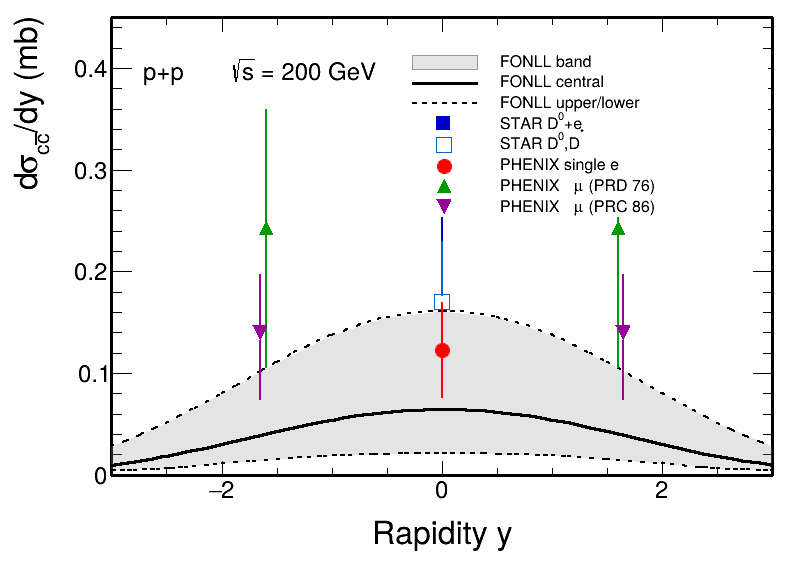
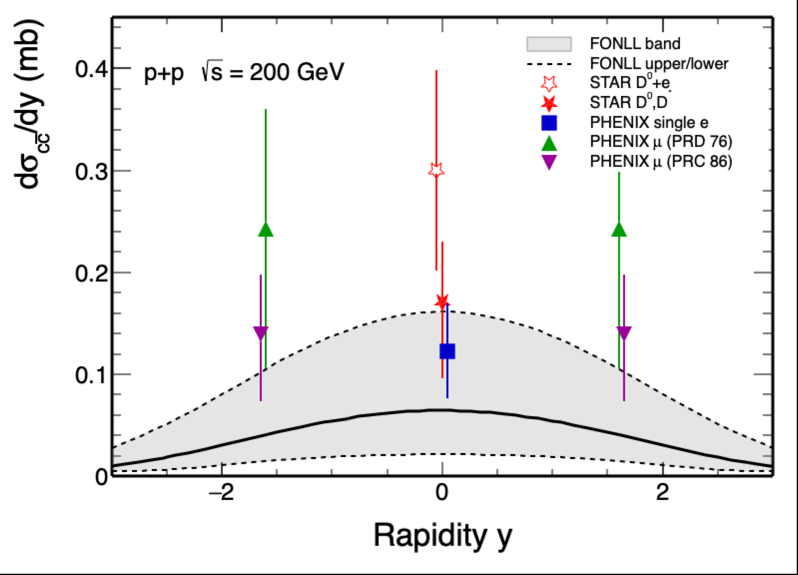
Sync charm and bottom rapidity plots

diff --git a/HF_Review_2026/tmp_root_macro/charm_rapidity_plot.C b/HF_Review_2026/tmp_root_macro/charm_rapidity_plot.C
@@ -46,7 +46,7 @@ void charm_rapidity_plot()
   double yHigh[nCurve] = {0.0280, 0.0512, 0.0801, 0.1113, 0.1375, 0.1551, 0.1614, 0.1551, 0.1375, 0.1113, 0.0801, 0.0512, 0.0280};
 
   double ex0[2] = {0., 0.};
-  double yStarX[1] = {0.0};
+  double yStarX[1] = {-0.05};
   // STAR PRL 94, 062301: d sigma_ccbar/dy(y=0) = 0.30 +/- 0.04 +/- 0.09 mb.
   double yStar[1] = {0.300};
   double yStarErr[1] = {0.0985};
@@ -58,7 +58,7 @@ void charm_rapidity_plot()
   double yStarNewErrLow[1] = {0.0742};
   double yStarNewErrHigh[1] = {0.0597};
 
-  double yPhenixSingleEX[1] = {0.0};
+  double yPhenixSingleEX[1] = {0.05};
   // PHENIX PRL 97, 252002, HEPData Table 2:
   // d sigma_ccbar/dy = 123 +/- 12(stat) +/- 45(syst) microbarn at |y| < 0.35.
   double yPhenixSingleE[1] = {0.123};
@@ -141,26 +141,26 @@ void charm_rapidity_plot()
   grCentral->Draw("c");
 
   TGraphErrors *grStar = new TGraphErrors(1, yStarX, yStar, ex0, yStarErr);
-  grStar->SetMarkerStyle(21);
-  grStar->SetMarkerSize(1.8);
-  grStar->SetMarkerColor(kBlue+1);
-  grStar->SetLineColor(kBlue+1);
+  grStar->SetMarkerStyle(30);
+  grStar->SetMarkerSize(1.9);
+  grStar->SetMarkerColor(kRed);
+  grStar->SetLineColor(kRed);
   grStar->SetLineWidth(2);
   grStar->Draw("p");
 
   TGraphAsymmErrors *grStarNew = new TGraphAsymmErrors(1, yStarNewX, yStarNew, ex0, ex0, yStarNewErrLow, yStarNewErrHigh);
-  grStarNew->SetMarkerStyle(25);
-  grStarNew->SetMarkerSize(1.9);
-  grStarNew->SetMarkerColor(kAzure+2);
-  grStarNew->SetLineColor(kAzure+2);
+  grStarNew->SetMarkerStyle(29);
+  grStarNew->SetMarkerSize(2.2);
+  grStarNew->SetMarkerColor(kRed);
+  grStarNew->SetLineColor(kRed);
   grStarNew->SetLineWidth(2);
   grStarNew->Draw("p");
 
   TGraphErrors *grPhenixSingleE = new TGraphErrors(1, yPhenixSingleEX, yPhenixSingleE, ex0, yPhenixSingleEErr);
-  grPhenixSingleE->SetMarkerStyle(20);
-  grPhenixSingleE->SetMarkerSize(1.9);
-  grPhenixSingleE->SetMarkerColor(kRed);
-  grPhenixSingleE->SetLineColor(kRed);
+  grPhenixSingleE->SetMarkerStyle(21);
+  grPhenixSingleE->SetMarkerSize(1.8);
+  grPhenixSingleE->SetMarkerColor(kBlue+1);
+  grPhenixSingleE->SetLineColor(kBlue+1);
   grPhenixSingleE->SetLineWidth(2);
   grPhenixSingleE->Draw("p");
 
@@ -186,7 +186,7 @@ void charm_rapidity_plot()
   tex->SetTextSize(0.046);
   tex->Draw("same");
 
-  TLegend *leg = new TLegend(0.50, 0.62, 0.965, 0.91);
+  TLegend *leg = new TLegend(0.65, 0.70, 0.965, 0.94);
   leg->SetFillColor(10);
   leg->SetLineStyle(4000);
   leg->SetLineColor(10);
@@ -194,7 +194,7 @@ void charm_rapidity_plot()
   leg->SetTextFont(42);
   leg->SetTextSize(0.030);
   leg->AddEntry(grBand, "  FONLL band", "f");
-  leg->AddEntry(grCentral, "  FONLL central", "l");
+//  leg->AddEntry(grCentral, "  FONLL central", "l");
   leg->AddEntry(grHigh, "  FONLL upper/lower", "l");
   leg->AddEntry(grStar, "  STAR D^{0}+e", "p");
   leg->AddEntry(grStarNew, "  STAR D^{0},D^{*}", "p");

diff --git a/HF_Review_2026/tmp_root_macro/dndybth.C b/HF_Review_2026/tmp_root_macro/dndybth.C
@@ -77,7 +77,7 @@ void dndybth()
 
   // PHENIX PRL 103, 082002, HEPData Table 2:
   // d sigma_bbbar/dy(y=0) = 0.92 +0.34/-0.31 (stat) +0.39/-0.36 (syst) microbarn.
-  double xEH[1] = {0.0};
+  double xEH[1] = {0.05};
   double yEH[1] = {0.92};
   double eEHLow[1] = {0.31};
   double eEHHigh[1] = {0.34};
@@ -119,14 +119,14 @@ void dndybth()
   d0->SetMaximum(yy2);
   d0->GetXaxis()->SetNdivisions(506);
   d0->GetXaxis()->CenterTitle();
-  d0->GetXaxis()->SetTitle("y_{b}");
+  d0->GetXaxis()->SetTitle("Rapidity y");
   d0->GetXaxis()->SetTitleOffset(1.03);
   d0->GetXaxis()->SetTitleSize(0.070);
   d0->GetXaxis()->SetLabelSize(0.050);
   d0->GetXaxis()->SetTitleFont(42);
   d0->GetXaxis()->SetLabelFont(42);
   d0->GetYaxis()->SetNdivisions(505);
-  d0->GetYaxis()->SetTitle("d#sigma_{b#bar{b}}/dy_{b} (#mub)");
+  d0->GetYaxis()->SetTitle("d#sigma_{b#bar{b}}/dy (#mub)");
   d0->GetYaxis()->SetTitleOffset(1.02);
   d0->GetYaxis()->SetTitleSize(0.060);
   d0->GetYaxis()->SetLabelSize(0.050);
@@ -167,8 +167,8 @@ void dndybth()
   TGraphErrors *grDie = new TGraphErrors(1, xDie, yDie, ex0, eDie);
   grDie->SetMarkerStyle(21);
   grDie->SetMarkerSize(2.0);
-  grDie->SetMarkerColor(kRed);
-  grDie->SetLineColor(kRed);
+  grDie->SetMarkerColor(kBlue+1);
+  grDie->SetLineColor(kBlue+1);
   grDie->SetLineWidth(2);
   grDie->Draw("p");
 
@@ -196,25 +196,25 @@ void dndybth()
   grDimu->SetLineWidth(2);
   grDimu->Draw("p");
 
-  TLatex *tex1 = new TLatex(0.18, 0.87, "PHENIX");
+  TLatex *tex1 = new TLatex(0.18, 0.88, "PHENIX");
   tex1->SetNDC();
   tex1->SetTextFont(42);
-  tex1->SetTextSize(0.055);
+  tex1->SetTextSize(0.05);
   tex1->Draw("same");
 
-  TLatex *tex2 = new TLatex(0.62, 0.87, "p+p  #sqrt{s} = 200 GeV");
+  TLatex *tex2 = new TLatex(0.66, 0.88, "p+p #sqrt{s} = 200 GeV");
   tex2->SetNDC();
   tex2->SetTextFont(42);
   tex2->SetTextSize(0.046);
   tex2->Draw("same");
 
-  TLegend *leg = new TLegend(0.18, 0.50, 0.48, 0.84);
+  TLegend *leg = new TLegend(0.18, 0.56, 0.48, 0.86);
   leg->SetFillColor(10);
   leg->SetLineStyle(4000);
   leg->SetLineColor(10);
   leg->SetLineWidth(0.);
   leg->SetTextFont(42);
-  leg->SetTextSize(0.035);
+  leg->SetTextSize(0.032);
   leg->AddEntry(grDie, "  Dielectrons", "p");
   leg->AddEntry(grEH, "  e-h correlations", "p");
   leg->AddEntry(grJpsi, "  B #rightarrow J/#psi", "p");
